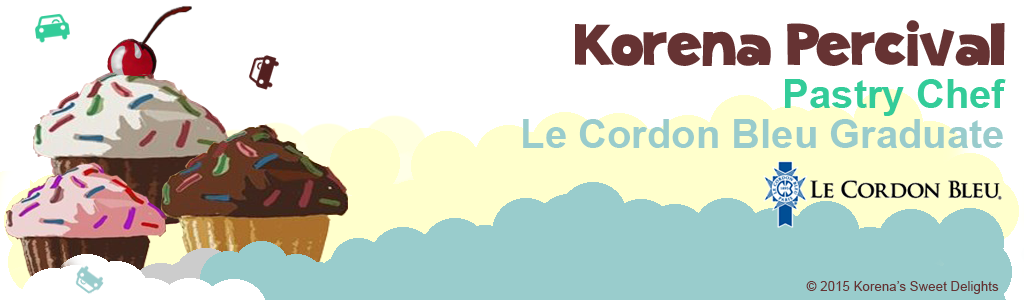
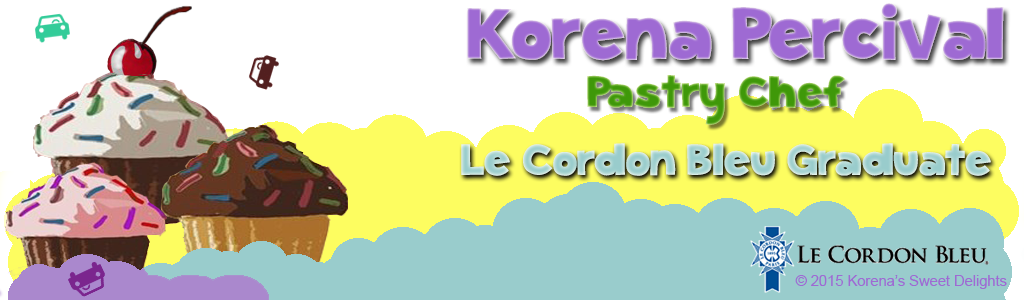
Complete color scheme change and reformatting price list

diff --git a/prices.html b/prices.html
@@ -26,7 +26,7 @@
                 <div id="cakes">
                     <div id="cakes-list">
                     <ul>
-                        <li>Cakes & Cupcakes
+                        <li><span class="firstli">Cakes & Cupcakes</span>
                             <ul>
                                 <li>Chocolate</li>
                                 <li>Vanilla</li>
@@ -41,7 +41,7 @@
                     </div>
                     <div id="cakes-sublist">
                         <ul>
-                            <li>Icings
+                            <li><span class="firstli">Icings</span>
                                 <ul>
                                     <li>Chocolate</li>
                                     <li>Vanilla</li>
@@ -53,7 +53,7 @@
                             </li>
                         </ul>
                         <ul>
-                            <li>Fillings
+                            <li><span class="firstli">Fillings</span>
                                 <ul>
                                     <li>Fruit</li>
                                     <li>Chocolate</li>
@@ -101,7 +101,7 @@
                <img class="candies-img" src="images/candies.png" alt="Candies" />
                <div id="cookies">
                     <ul>
-                        <li>Cookies
+                        <li><span class="firstli">Cookies</span>
                             <ul>
                                 <li>Fresh Apple</li>
                                 <li>Chocolate Chip</li>
@@ -114,7 +114,7 @@
                 </div> 
                <div id="candies">
                     <ul>
-                        <li>Candies
+                        <li><span class="firstli">Candies</span>
                             <ul>
                                 <li>Toffee</li>
                                 <li>Truffles</li>

diff --git a/css/style.css b/css/style.css
@@ -1,7 +1,7 @@
 body {
     font-size: 14pt;
     text-align: center;
-    color: #663333;
+    color: #8438c7;
     //line-height: 100px;
     vertical-align: middle;
     font-family: Arial, Helvetica, sans-serif;
@@ -102,7 +102,7 @@ ul {
 }
 #navigation a {
     font-size: 16pt;
-    background-color: #663333;
+    background-color: #9e6ad3;
     color: #ffffff;
     display: block;
     padding: .75em 1.5em;
@@ -113,7 +113,7 @@ ul {
     border-radius: 15px;
 }
 #navigation a:hover {
-    background-color: #33cc99; //#666633;
+    background-color: #3f9809; //#666633;
 }
 
 #navigation a.fbcolor {
@@ -157,7 +157,7 @@ ul {
    float: left;
 //border: 1px solid red;
 //    padding-right: 5px;
-    width:45%
+    width:30%
 }
 
 #cakes-list {
@@ -166,6 +166,10 @@ ul {
     float: left;
  //border: 1px solid green;
     font-size:16pt;
+}
+
+.firstli {
+    font-size: 1.2em;
 }
 
 #cakes-sublist {
@@ -182,8 +186,8 @@ ul {
     display: inline;
     float: left;
 //border: 1px solid yellow;
-    font-size: 14pt;
-    width: 32%;
+    font-size: 18pt;
+    width: 45%;
 }
 #fromscratch {
     font-size: 18pt;
